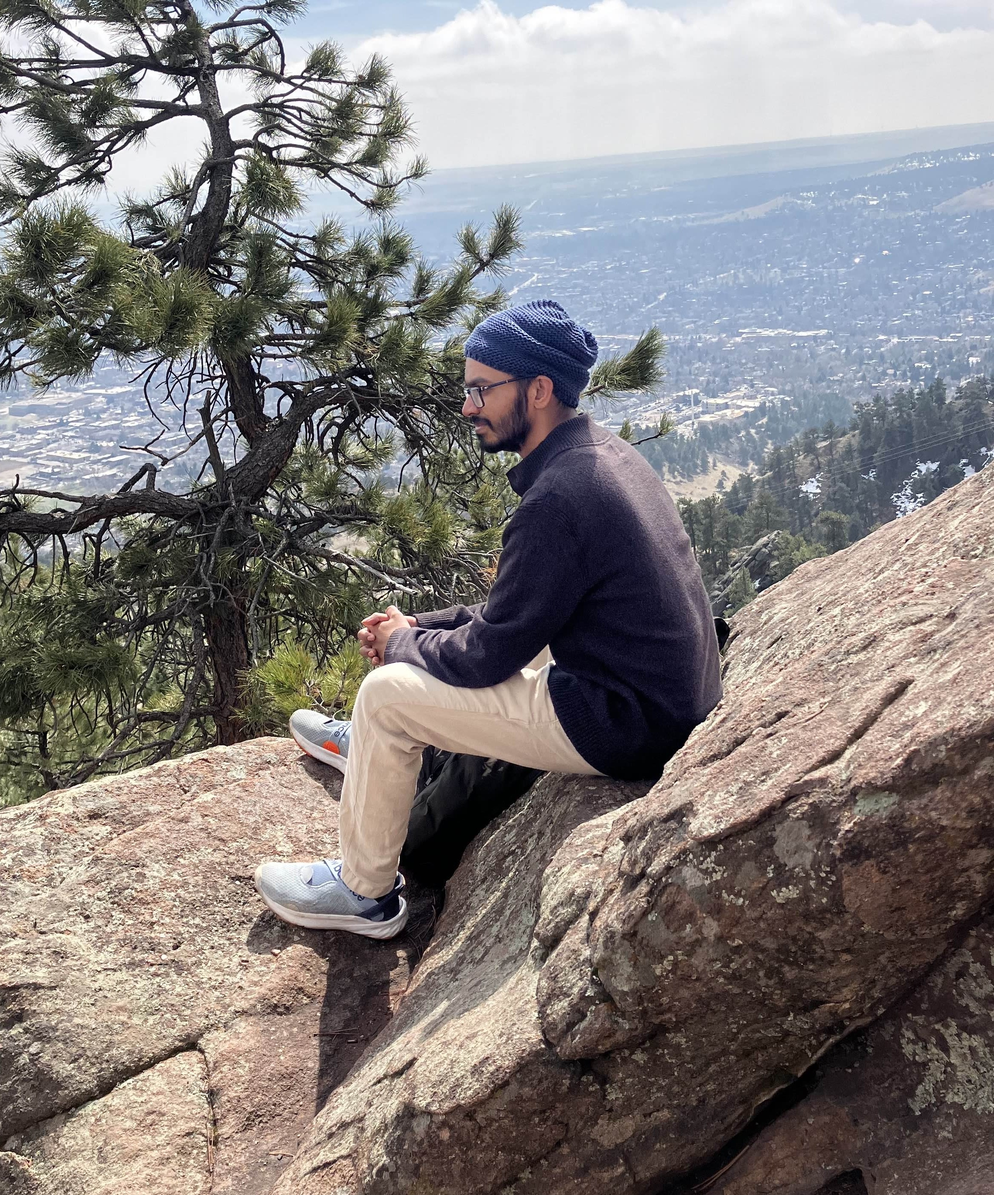
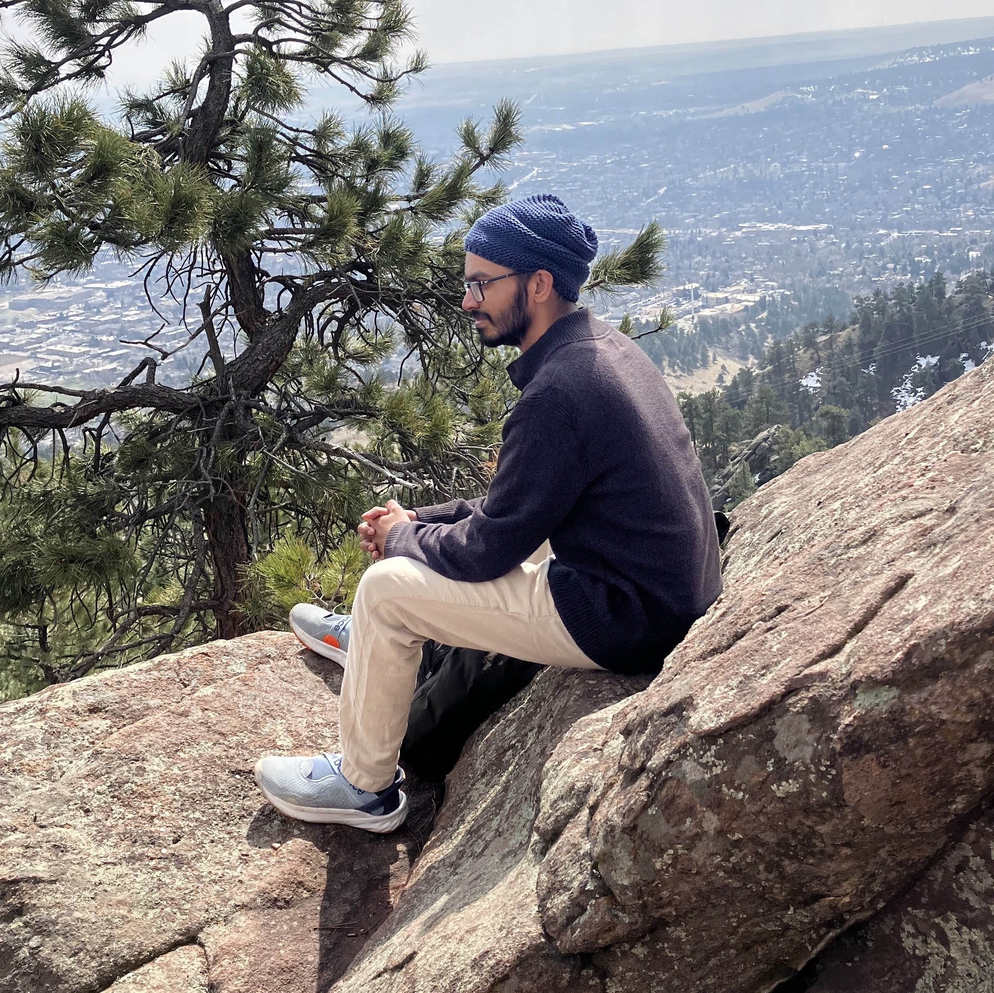
WIP: profile box formatting

diff --git a/team.html b/team.html
@@ -104,6 +104,35 @@
     <!-- <![endif] -->
   </myimports>
 
+  <style>
+    .team-content{
+      width: 96%;
+      max-width: 1200px;
+      margin: 0 auto;
+      display: grid;
+      grid-template-columns: repeat(4, 1fr) !important;
+      align-items: start !important;
+      gap: 2rem;
+      text-align: center;
+      margin-top: 4rem;
+    }
+    .team-content img{
+      width: 200px !important;
+      height: 200px !important;
+      border-radius: 50%;
+      margin-bottom: 15px;
+      object-fit: cover !important;
+    }
+    .box{
+      padding: 16px;
+      max-width: 300px;
+      min-height: 400px !important;
+      background: radial-gradient(#ffffff,#ffffffff);
+      border-radius: 20px;
+      border: 1px solid #ccc;
+      transition: all .2s ease;
+    }
+  </style>
  
   </head>
 
